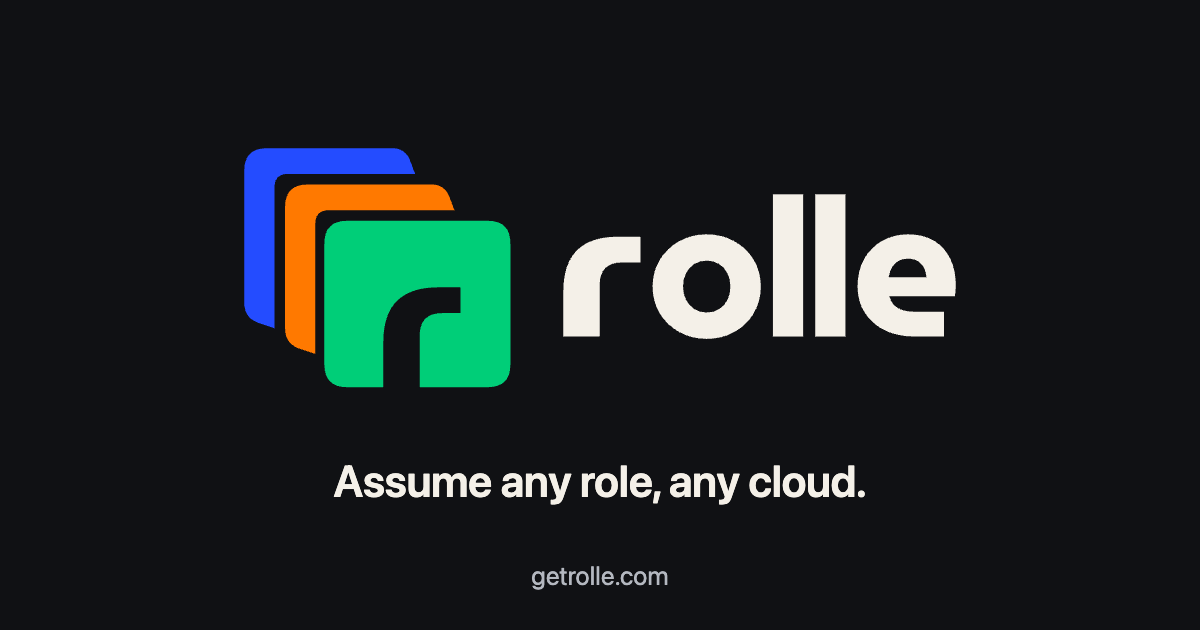
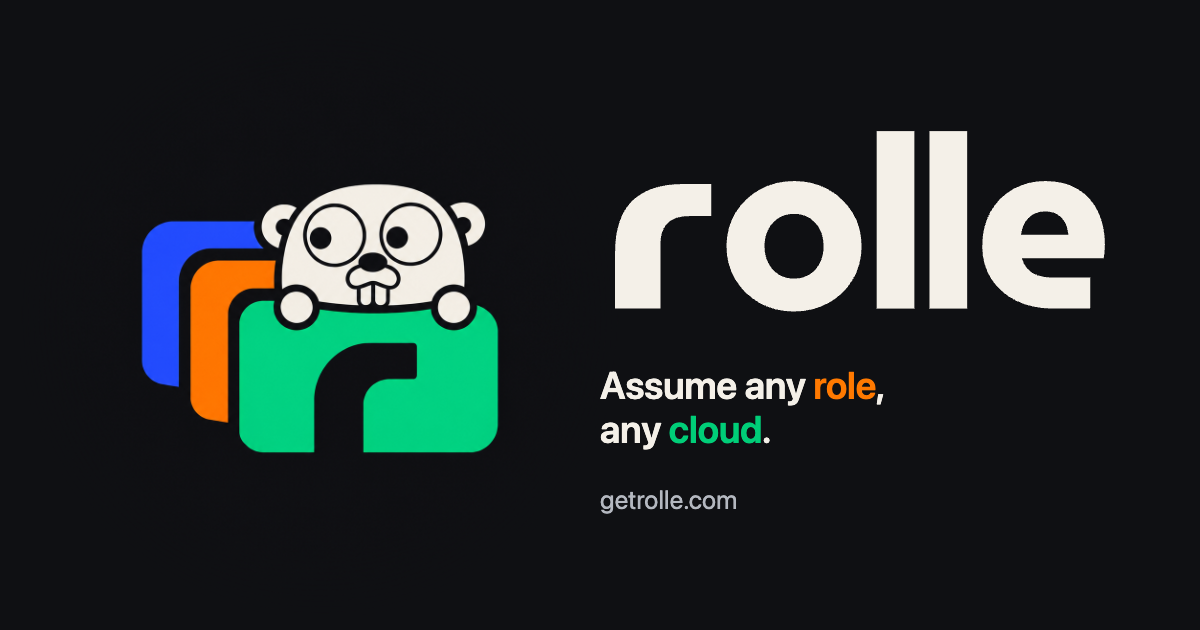
docs: social card shows the gopher artwork, colored tagline; card source lives in the brand kit

diff --git a/docs/brand/og-card.html b/docs/brand/og-card.html
@@ -1,0 +1,12 @@
+<!doctype html><html><head><meta charset="utf-8"><style>
+html,body{margin:0;width:1200px;height:630px;background:#0F1013;color:#F4F0E8;font-family:-apple-system,BlinkMacSystemFont,"Segoe UI",Inter,sans-serif;overflow:hidden}
+.card{position:relative;width:1200px;height:630px;display:flex;align-items:center}
+.gopher{position:absolute;left:20px;top:15px;width:600px;height:600px;-webkit-mask-image:radial-gradient(circle at 50% 50%, #000 52%, transparent 72%);mask-image:radial-gradient(circle at 50% 50%, #000 52%, transparent 72%)}
+.text{position:absolute;left:600px;top:0;bottom:0;width:560px;display:flex;flex-direction:column;justify-content:center;gap:34px}
+.tag{font-size:38px;font-weight:600;letter-spacing:-0.01em;margin:0;line-height:1.15}
+.url{font-size:26px;color:#B4B8C0}
+</style></head><body><div class="card">
+<img class="gopher" src="../readme-gopher.png">
+<div class="text"><svg style="width:520px;height:auto;display:block" xmlns="http://www.w3.org/2000/svg" width="550.973" height="226.081" viewBox="0 0 550.973 226.081" role="img" aria-label="Rolle custom wordmark"><title>Rolle custom wordmark</title><g transform="translate(16 16)" fill="#F4F0E8"><path id="icon-r" transform="translate(0 56.080677)" d="M 0 132 L 48 132 L 48 64 Q 48 34 78 34 L 102 34 L 102 0 L 72 0 Q 0 0 0 72 Z"/><path transform="translate(109.325960 188.080677) scale(0.257644763 -0.257644763)" d="M311.6666666666667 -12Q233 -12 170.16666666666669 23.0Q107.33333333333334 58 70.5 118.96023688663283Q33.66666666666667 179.92047377326566 33.66666666666667 256.3333333333333Q33.66666666666667 332.74619289340103 70.5 393.53976311336714Q107.33333333333334 454.3333333333333 170.33333333333334 489.5Q233.33333333333334 524.6666666666666 312 524.6666666666666Q390.6666666666667 524.6666666666666 453.33333333333337 489.5Q516 454.3333333333333 552.6666666666667 393.81495098039215Q589.3333333333334 333.296568627451 589.3333333333334 256.14950980392155Q589.3333333333334 179.66666666666666 552.6666666666667 118.83333333333333Q516 58 453.16666666666663 23.0Q390.3333333333333 -12 311.6666666666667 -12ZM311.63012181616836 123.33333333333333Q348.6666666666667 123.33333333333333 376.0 141.0Q403.33333333333337 158.66666666666666 418.1666666666667 188.75301204819277Q433 218.83935742971886 433 256.5863453815261Q433 294.3333333333333 418.1666666666667 324.33333333333337Q403.33333333333337 354.33333333333337 376.02904564315355 372.0Q348.72475795297373 389.6666666666667 311.6957123098202 389.6666666666667Q274.6666666666667 389.6666666666667 247.33333333333334 372.02462121212125Q220 354.38257575757575 205.0 324.4382758305951Q190 294.49397590361446 190 256.7469879518072Q190 219 204.98671096345515 188.87026515151516Q219.9734219269103 158.7405303030303 247.28349944629014 141.0369318181818Q274.59357696566997 123.33333333333333 311.63012181616836 123.33333333333333Z"/><path transform="translate(262.307092 188.080677) scale(0.257644763 -0.257644763)" d="M57.66666666666667 0V730H212.66666666666666V0Z"/><path transform="translate(318.242030 188.080677) scale(0.257644763 -0.257644763)" d="M57.66666666666667 0V730H212.66666666666666V0Z"/><path transform="translate(380.360442 188.080677) scale(0.257644763 -0.257644763)" d="M325.6666666666667 0Q238.66666666666666 0 173.0 32.333333333333336Q107.33333333333334 64.66666666666667 70.5 122.5Q33.66666666666667 180.33333333333334 33.66666666666667 256Q33.66666666666667 340.3333333333333 68.66666666666667 400.3333333333333Q103.66666666666667 460.3333333333333 162.5 492.5Q221.33333333333334 524.6666666666666 292.3333333333333 524.6666666666666Q373.3333333333333 524.6666666666666 427.8333333333333 490.8333333333333Q482.3333333333333 457 510.16666666666663 398.33333333333337Q538 339.6666666666667 538 264.6666666666667Q538 251.66666666666666 536.6666666666667 234.5Q535.3333333333334 217.33333333333334 532.6666666666666 207H196.66666666666666Q203.33333333333331 180.66666666666666 220.0 162.83333333333331Q236.66666666666666 145 262.6666666666667 136.33333333333331Q288.6666666666667 127.66666666666666 321.3333333333333 127.66666666666666H477.6666666666667V0ZM193 303.6666666666667H387.6666666666667Q386.33333333333337 320.3333333333333 382.0 335.0Q377.6666666666667 349.6666666666667 369.5 361.5Q361.33333333333337 373.3333333333333 350.33333333333337 381.83333333333337Q339.33333333333337 390.33333333333337 324.5 395.0Q309.6666666666667 399.6666666666667 292 399.6666666666667Q269 399.6666666666667 251.16666666666666 391.6666666666667Q233.33333333333331 383.6666666666667 221.33333333333331 370.33333333333337Q209.33333333333331 357 202.5 339.66666666666663Q195.66666666666666 322.3333333333333 193 303.6666666666667Z"/></g></svg>
+<p class="tag">Assume any <span style="color:#FF7900">role</span>,<br>any <span style="color:#00CE78">cloud</span>.</p><div class="url">getrolle.com</div></div>
+</div></body></html>

diff --git a/docs/brand/README.md b/docs/brand/README.md
@@ -29,3 +29,7 @@ Desktop and tray icons use the stack alone. The Go gopher is reserved for the RE
 - [TYPOGRAPHY.md](TYPOGRAPHY.md): wordmark masters, font usage and regeneration.
 - [IMPLEMENTATION.md](IMPLEMENTATION.md): application integration and source locations.
 - [ATTRIBUTION.md](ATTRIBUTION.md): Go gopher and font credits.
+
+## Social card
+
+[og-card.html](og-card.html) is the source of the Open Graph image served as `docs/public/og-brand.png`. Render it at 1200x630 with a headless browser after a brand change.
